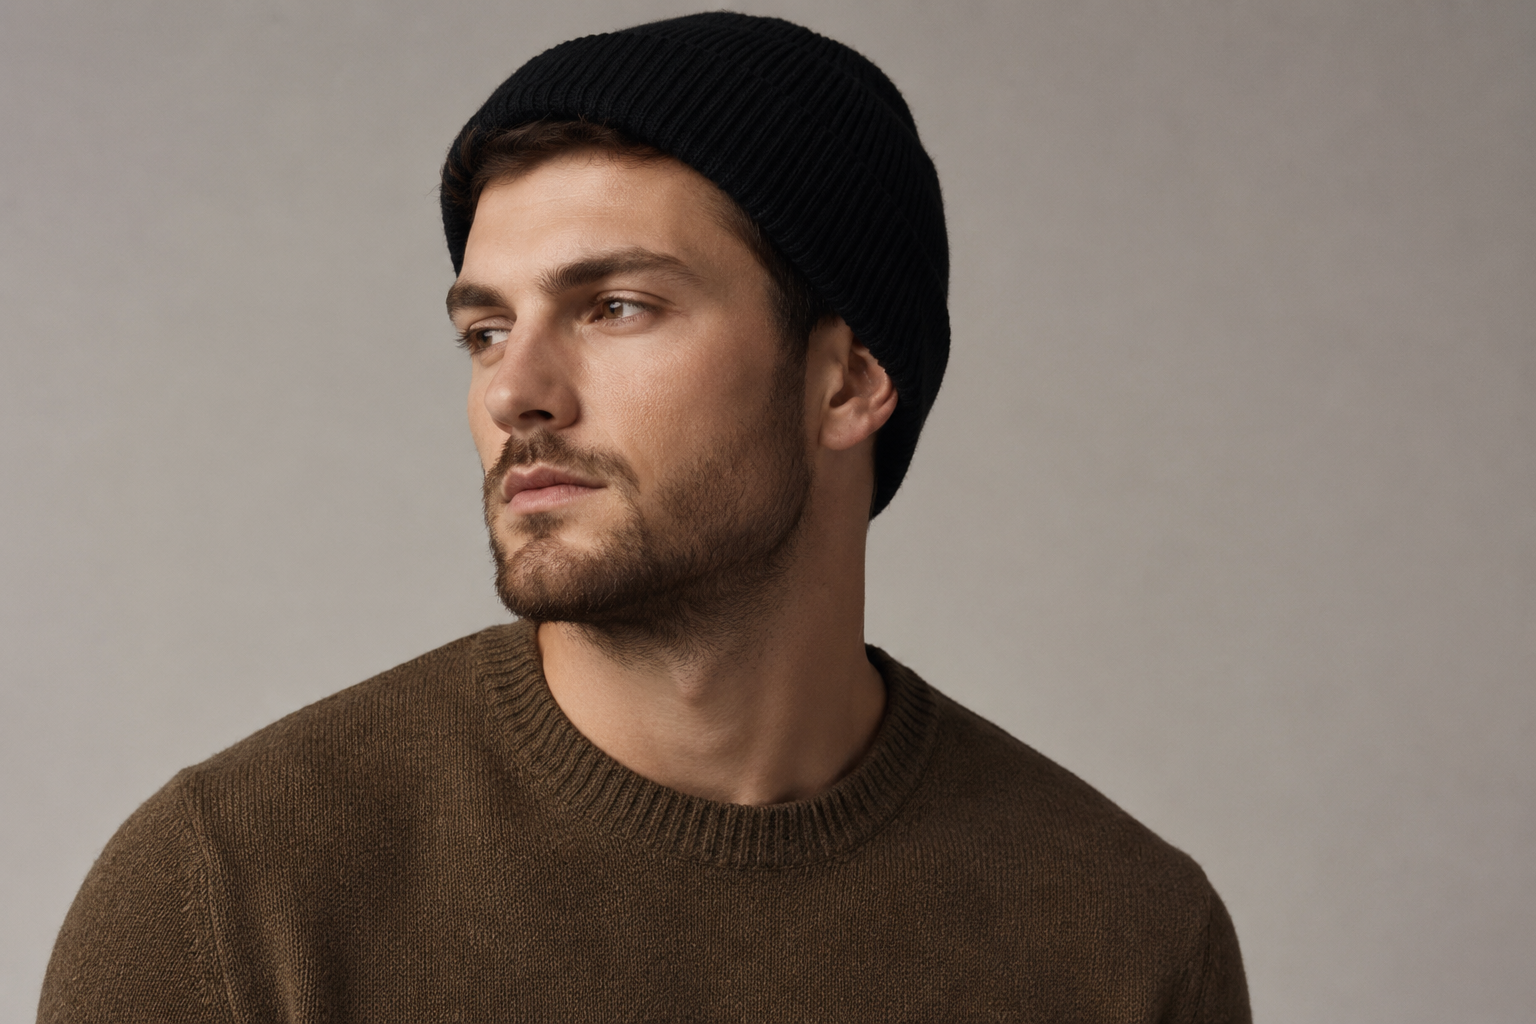
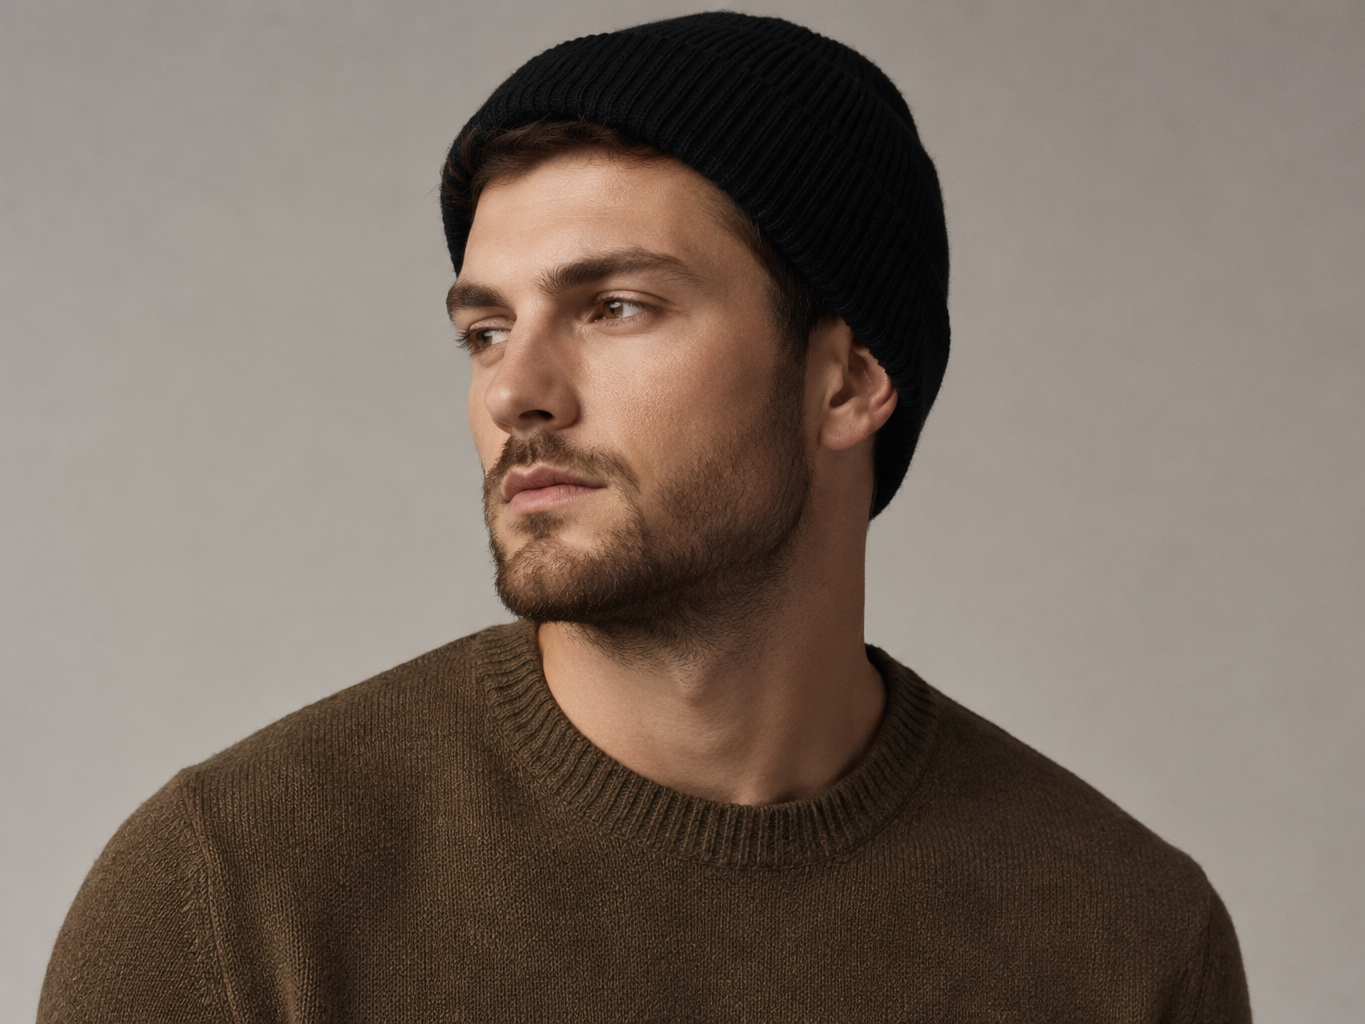
Subi un par de imagenes

Changed region(s): [[0.0, 0.0, 0.9231, 1.0]]

diff --git a/src/pages/Home.jsx b/src/pages/Home.jsx
@@ -11,9 +11,7 @@ import { useCatalogData, getFeatured, getNew } from '../lib/catalog.js'
 import { brand } from '../config/brand.js'
 import { useWishlistStore } from '../store/wishlistStore.js'
 
-// RE-SKIN: imagen editorial del hero. Reemplazar por foto de campaña del cliente.
-const HERO_IMG =
-  'https://images.unsplash.com/photo-1490481651871-ab68de25d43d?auto=format&fit=crop&w=1600&q=80'
+const HERO_IMG = '/img/products/hero-home-1.png'
 
 function SectionHeader({ title, to, linkLabel = 'Ver todo' }) {
   return (
@@ -175,7 +173,7 @@ export default function Home() {
         <div className="grid items-center gap-8 border border-line md:grid-cols-2">
           <div className="hidden h-full md:block">
             <ProductImage
-              src="https://images.unsplash.com/photo-1483985988355-763728e1935b?auto=format&fit=crop&w=1000&q=80"
+              src="/img/products/newsletter-circulo-1.png"
               alt={`Sumate a la comunidad ${brand.name}`}
               ratio="aspect-[4/3] h-full"
             />